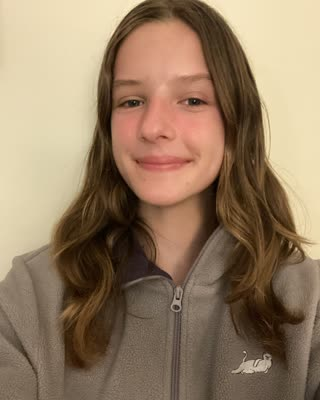
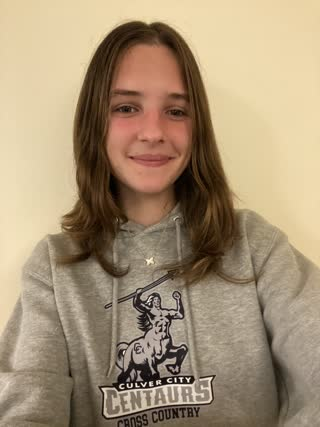
Updated headshots for 2025, added new mentors

diff --git a/src/pages/About/index.tsx b/src/pages/About/index.tsx
@@ -2,6 +2,8 @@ import { useEffect, useState } from "react";
 import "./index.sass";
 import "./media.sass";
 
+import TEAM_DATA from "./members.json"
+
 function getCompressedPath(personNameNoSpaces: string): string {
   return `Headshots/compressed/${personNameNoSpaces}.jpg`;
 }
@@ -45,10 +47,15 @@ function BlurryPhoto(props: {
   );
 }
 
+interface TeamCardActive {
+
+}
+
 interface TeamCardProps {
   name: string;
   role: string;
   leadership?: number;
+  active?: TeamCardActive;
 }
 
 function TeamCard(props: TeamCardProps & { lazy: boolean }) {
@@ -69,119 +76,6 @@ function TeamCard(props: TeamCardProps & { lazy: boolean }) {
     </div>
   );
 }
-
-const TEAM_DATA: TeamCardProps[] = [
-  {
-    name: "Annabelle Andreone",
-    role: "Mentor",
-  },
-  {
-    name: "Audrey Rothenberg",
-    role: "Chief Operating Officer",
-    leadership: 9,
-  },
-  {
-    name: "Augusta Poggi",
-    role: "Mentor",
-  },
-  {
-    name: "Brandon Yang",
-    role: "Mentor",
-  },
-  {
-    name: "Carmen Piro",
-    role: "Mathematics Project Manager",
-    leadership: 2,
-  },
-  {
-    name: "Emi Sakamoto",
-    role: "Reading Curriculum Director",
-    leadership: 8,
-  },
-  {
-    name: "Evan Daurio",
-    role: "Mentor",
-  },
-  {
-    name: "Eve Mott",
-    role: "Mentor",
-  },
-  {
-    name: "Flora Woo",
-    role: "Chief Financial Officer",
-    leadership: 5,
-  },
-  {
-    name: "Gianna Wong",
-    role: "Mentor",
-  },
-  {
-    name: "Kendyll Hoang",
-    role: "Mentor",
-  },
-  {
-    name: "Kira Connors",
-    role: "Mentor",
-  },
-  {
-    name: "Malia Valentic",
-    role: "Mentor",
-  },
-  {
-    name: "Maren Brown",
-    role: "Mathematics Curriculum Director",
-    leadership: 7,
-  },
-  {
-    name: "Mateo Rodriguez",
-    role: "Chief Technology Officer",
-    leadership: 6,
-  },
-  {
-    name: "Miles Katz Facher",
-    role: "Mentor",
-  },
-  {
-    name: "Nina Faeh",
-    role: "Mentor",
-  },
-  {
-    name: "Tiffany Hotton",
-    role: "Mentor",
-  },
-  {
-    name: "Una Finn",
-    role: "Mentor",
-  },
-  {
-    name: "Katie Sriro",
-    role: "Reading Project Manager",
-    leadership: 3,
-  },
-  {
-    name: "Mimi Mirvish",
-    role: "Mentor",
-  },
-  {
-    name: "Sofia Kinsella",
-    role: "Creative Director",
-    leadership: 4,
-  },
-  {
-    name: "Robert Logan",
-    role: "Project Controls Manager",
-    leadership: 1,
-  },
-  {
-    name: "Lila Bragard",
-    role: "Chief Executive Officer and Founder",
-    leadership: 10,
-  },
-  {
-    name: "Juliet Ashley",
-    role: "Mentor",
-  },
-];
 
 export default function About() {
   useEffect(() => {

diff --git a/public/Headshots/normalize_extensions.py b/public/Headshots/normalize_extensions.py
@@ -1,0 +1,26 @@
+import os
+import logging
+
+logger = logging.getLogger(__name__)
+
+def main():
+    for subdir, _, files in os.walk("."):
+        for file in files:
+            name, extension = os.path.splitext(file)
+            if extension == ".jpeg":
+                og = os.path.join(subdir, file)
+                dst = os.path.join(subdir, name + ".jpg")
+
+                try:
+                    os.rename(og, dst)
+                except FileExistsError:
+                    os.remove(dst)
+                    os.rename(og, dst)
+                    
+                logger.info(f"Renamed {og} to {dst}")
+                
+            if extension == ".png" or extension == ".heic" or extension == ".webp":
+                logger.error(f"{file} is a common image format, but not .jpeg or .jpg")
+                
+if __name__ == "__main__":
+    main()
